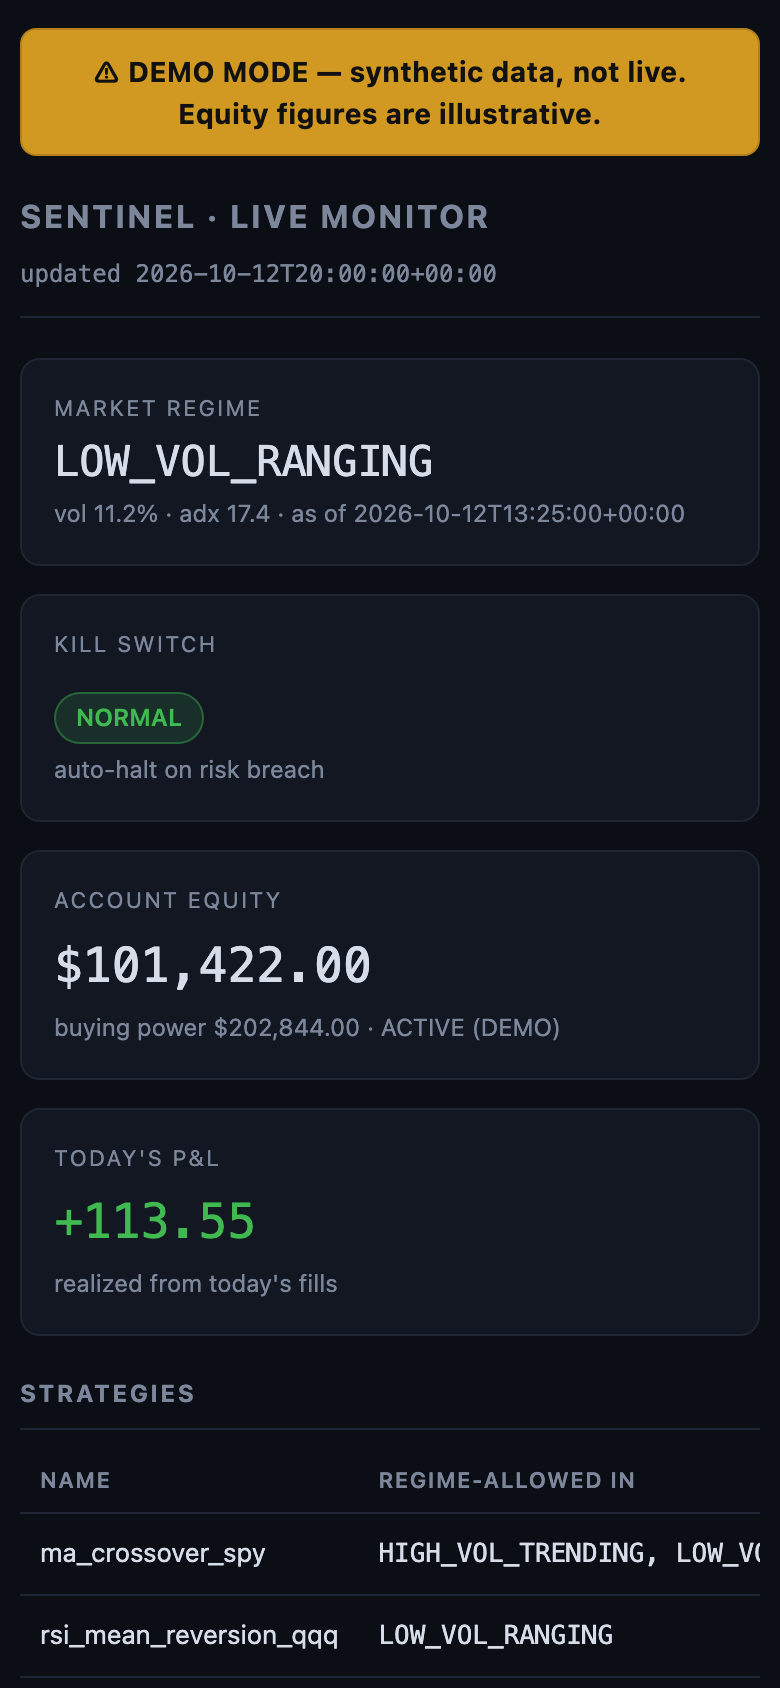
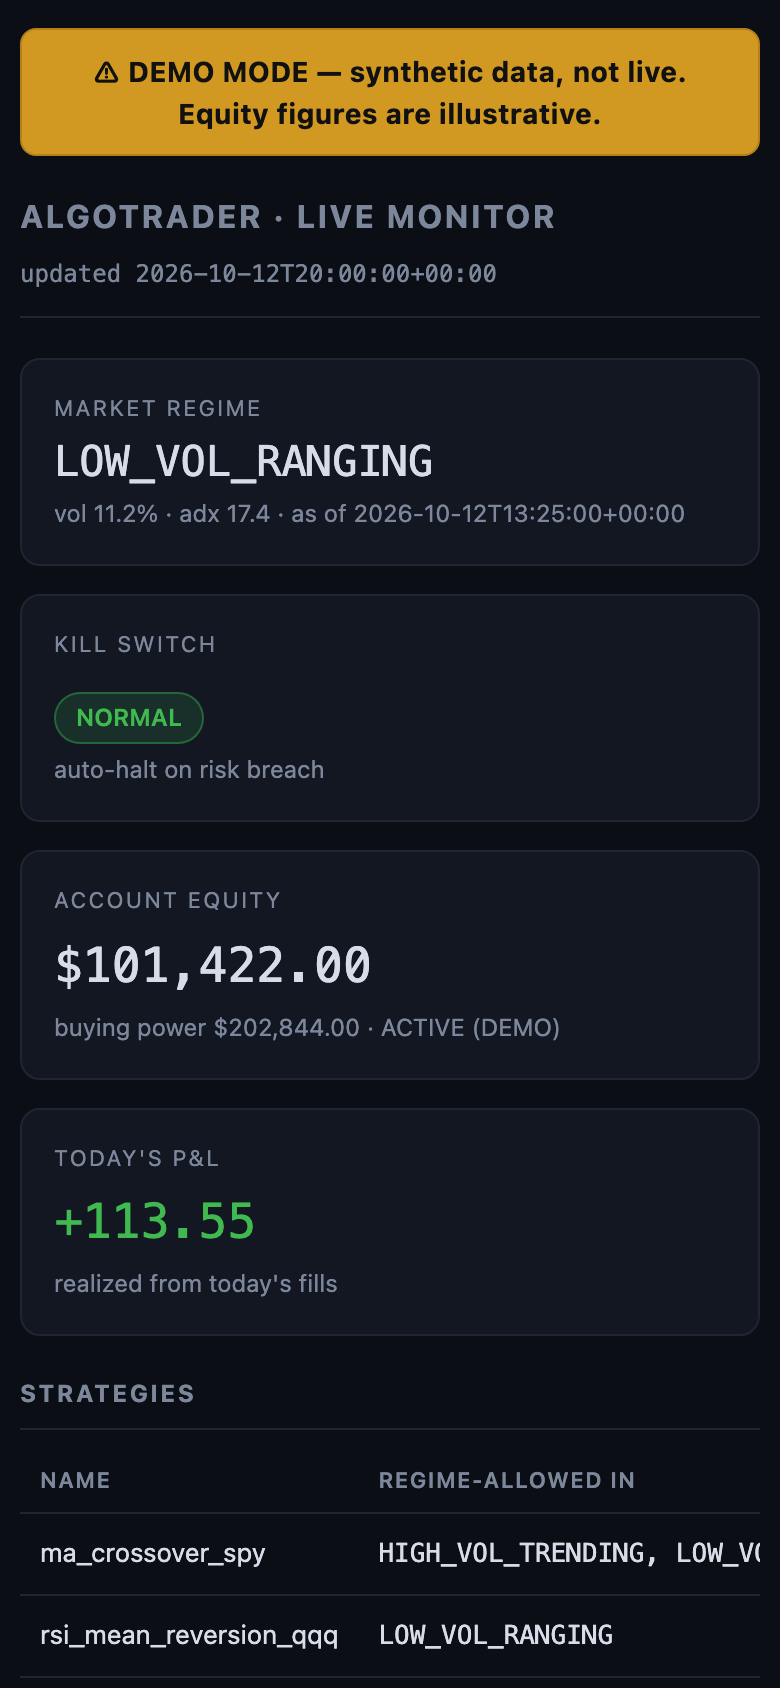
rename project to algotrader (docs + dashboard only)

Changed region(s): [[0.0923, 0.1232, 0.7077, 0.154], [0.0308, 0.1232, 0.0615, 0.154]]

diff --git a/src/dashboard/app.py b/src/dashboard/app.py
@@ -476,12 +476,12 @@ def _render(state: dict) -> str:
 <meta charset="utf-8">
 <meta name="viewport" content="width=device-width, initial-scale=1">
 <meta http-equiv="refresh" content="60">
-<title>Sentinel — Monitor</title>
+<title>algotrader — Monitor</title>
 <style>{_CSS}</style>
 </head><body><div class="wrap">
 {demo_banner}
 <header>
-  <h1>Sentinel · Live Monitor</h1>
+  <h1>algotrader · Live Monitor</h1>
   <span class="gen mono">updated {e(state['generated_at'])}</span>
 </header>
 

diff --git a/tests/test_dashboard.py b/tests/test_dashboard.py
@@ -30,7 +30,7 @@ def test_index_returns_200_html(client):
     r = client.get("/")
     assert r.status_code == 200
     assert r.mimetype == "text/html"
-    assert b"Sentinel" in r.data
+    assert b"algotrader" in r.data
     assert b"Market Regime" in r.data
 
 

diff --git a/README.md b/README.md
@@ -1,13 +1,13 @@
-# Sentinel
+# algotrader
 
 ![Tests](https://img.shields.io/badge/tests-146%20passing-brightgreen)
 ![Mode](https://img.shields.io/badge/mode-paper%20trading%20(Alpaca)-blue)
 ![Python](https://img.shields.io/badge/python-3.11%2B-blue)
 ![License](https://img.shields.io/badge/license-MIT-green)
 
-Sentinel is an agentic multi-strategy paper-trading system with regime-aware orchestration and a hard dependency on an external credibility gate ([Null](https://null-aksh.netlify.app)). No strategy trades in Sentinel until it has passed adversarial out-of-sample validation in Null. The two projects together form a build/attack pair: Null tests strategies, Sentinel runs the survivors.
+Algotrader is an agentic multi-strategy paper-trading system with regime-aware orchestration and a hard dependency on an external credibility gate ([Null](https://null-aksh.netlify.app)). No strategy trades in algotrader until it has passed adversarial out-of-sample validation in Null. The two projects together form a build/attack pair: Null tests strategies, algotrader runs the survivors.
 
-![Sentinel dashboard — desktop](docs/screenshots/dashboard-desktop.png)
+![algotrader dashboard — desktop](docs/screenshots/dashboard-desktop.png)
 
 <p align="center">
   <img src="docs/screenshots/dashboard-kill-switch.png" width="48%" alt="Dashboard with kill switch active" />
@@ -27,7 +27,7 @@ Sentinel is an agentic multi-strategy paper-trading system with regime-aware orc
 | **Python** | 3.11+ |
 | **License** | MIT |
 
-> **Paper trading only.** Sentinel refuses to start against a live/funded Alpaca endpoint: the broker client hard-fails unless `ALPACA_BASE_URL` points at a paper host. There is no code path that places a real-money order.
+> **Paper trading only.** Algotrader refuses to start against a live/funded Alpaca endpoint: the broker client hard-fails unless `ALPACA_BASE_URL` points at a paper host. There is no code path that places a real-money order.
 
 ---
 
@@ -58,7 +58,7 @@ The **Orchestrator** drives the loop on a trading-calendar-aware schedule; every
 
 ## The Null Wall
 
-Sentinel's core discipline is *"I don't trust my own backtests."* A strategy that looks profitable in-sample is worthless until it survives adversarial, out-of-sample scrutiny. That scrutiny happens in a **separate project, [Null](https://null-aksh.netlify.app)** — an independent backtesting/validation tool that tries to break strategies.
+Algotrader's core discipline is *"I don't trust my own backtests."* A strategy that looks profitable in-sample is worthless until it survives adversarial, out-of-sample scrutiny. That scrutiny happens in a **separate project, [Null](https://null-aksh.netlify.app)** — an independent backtesting/validation tool that tries to break strategies.
 
 The **Null Wall** encodes that distrust *in code, not in a comment*. At orchestrator startup, `NullWall.enforce` loads a signed validation record for every configured strategy and **refuses to start** if any record is:
 
@@ -124,7 +124,7 @@ These ten rules governed every line of the build and are enforced by code and te
 
 ```bash
 # 1. Clone and create a virtual environment
-git clone <your-fork-url> sentinel && cd sentinel
+git clone <your-fork-url> algotrader && cd algotrader
 python3 -m venv .venv && source .venv/bin/activate
 pip install -r requirements.txt
 
@@ -190,7 +190,7 @@ A trading day runs itself on the schedule the Orchestrator registers (all times 
 
 ## Honest limitations
 
-In the spirit of Null's own self-description, here is what Sentinel is **not**:
+In the spirit of Null's own self-description, here is what algotrader is **not**:
 
 - **Not investment advice.** This is an engineering project, not a recommendation to trade anything.
 - **Not run with real capital.** It is paper-only by construction, and has never placed a real-money order.

diff --git a/docs/INTERVIEW_PREP.md b/docs/INTERVIEW_PREP.md
@@ -1,4 +1,4 @@
-# Sentinel — Interview Cheat Sheet
+# algotrader — Interview Cheat Sheet
 
 One page. Memorize the shape, not the words. Everything here is defensible from the
 code.
@@ -7,7 +7,7 @@ code.
 
 ## The one-sentence summary
 
-> Sentinel is a regime-aware, multi-strategy **paper** trading bot whose defining
+> Algotrader is a regime-aware, multi-strategy **paper** trading bot whose defining
 > feature is that **no strategy is allowed to trade until it survives adversarial
 > validation in a separate tool (Null)** — distrust of my own backtests, enforced
 > in code.
@@ -58,7 +58,7 @@ broker needed.)
 
 ## Why the Null wall is the interesting part
 
-Most trading projects *say* "validate your strategies." Sentinel makes that a
+Most trading projects *say* "validate your strategies." Algotrader makes that a
 **system-level dependency the program refuses to boot without.** `NullWall.enforce`
 blocks startup unless every strategy has a signed record that is `SURVIVED`, under
 90 days old, and whose `params_hash` still matches the live config. Change a
@@ -68,7 +68,7 @@ Null is a genuinely separate project that tries to break the strategies.
 
 ---
 
-## What Sentinel does NOT do (say this before you're asked)
+## What algotrader does NOT do (say this before you're asked)
 
 - **No machine learning, no reinforcement learning.** All trade math is explicit,
   interpretable, pure Python.

diff --git a/docs/ARCHITECTURE.md b/docs/ARCHITECTURE.md
@@ -1,6 +1,6 @@
-# Sentinel — Architecture
+# algotrader — Architecture
 
-A technical walkthrough of how Sentinel is layered, how a single tick flows end to
+A technical walkthrough of how algotrader is layered, how a single tick flows end to
 end, the tradeoffs behind the stack, the security model, and what a Phase 2 would
 add. For the high-level pitch and setup, see the [README](../README.md).
 
@@ -8,7 +8,7 @@ add. For the high-level pitch and setup, see the [README](../README.md).
 
 ## Layered architecture
 
-Sentinel is deliberately layered so that each concern is independently testable and
+Algotrader is deliberately layered so that each concern is independently testable and
 the **trading decision path stays pure Python**. Dependencies point downward; no
 lower layer imports an upper one.
 
@@ -115,7 +115,7 @@ Two properties make this honest:
 
 ## Design tradeoffs
 
-**SQLite over Postgres.** Sentinel is single-node and does not need concurrent
+**SQLite over Postgres.** Algotrader is single-node and does not need concurrent
 writers or a network hop. SQLite is zero-config, file-backed, trivially testable
 with a temp file per test, and more than fast enough for daily-bar workloads. The
 SQLAlchemy models would port to Postgres unchanged if a future version needed
